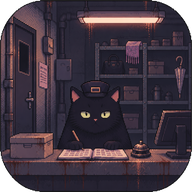
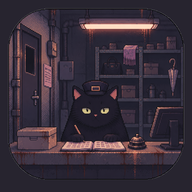
Add files via upload

diff --git a/index.html b/index.html
@@ -42,10 +42,20 @@ body{background:#1c1c26;color:#292633}
 <section id="result" class="hidden"><div class="panel"><div class="deck cardface" id="face"><img id="cardimg" alt="뽑은 타로 카드"></div><h2 id="ct" class="cardtitle"></h2><div id="or" class="orient"></div><p id="meaning"></p><hr><p><b>이 카드를 보고 어떤 생각이 들었나요?</b></p><textarea id="reflection" rows="8" placeholder="마음에 떠오른 걸 자유롭게 적어주세요."></textarea><button id="save" class="btn">마음 찾아가기</button><button id="again" class="btn">한 장 더 뽑기</button></div></section>
 <section id="records" class="hidden records"><div class="panel"><h2>마음 기록</h2><div id="list"></div><hr><div class="backup"><button id="export" class="btn">기록 백업하기</button><button id="importBtn" class="btn">기록 불러오기</button><input id="importFile" class="file" type="file" accept="application/json"></div><p class="tiny">백업 파일에는 질문·카드·정/역방향·기록·날짜가 함께 저장돼요.</p></div></section>
 <nav class="nav"><button id="recordsNav">▣ 기록</button><button id="homeNav">⌂ 홈</button></nav></main>
-<audio id="bgm" src="bgm.wav" loop></audio><audio id="rail" src="rail-ambience.wav" loop preload="auto"></audio><audio id="click" src="click.wav"></audio><audio id="flip" src="flip.wav"></audio>
+<audio id="bgm" src="bgm.wav" loop></audio><audio id="rail" src="rail-ambience.wav" loop preload="auto"></audio><audio id="click" src="click.wav"></audio>
 <script>
-let cards=[],current=null,soundOn=true,recentDraws=[];const $=s=>document.querySelector(s),bgm=$('#bgm'),rail=$('#rail'),click=$('#click'),flip=$('#flip');fetch('cards.json?v=20261012').then(r=>r.json()).then(x=>cards=x);if('serviceWorker'in navigator)navigator.serviceWorker.register('sw.js');
-function sfx(a){if(soundOn){a.currentTime=0;a.play().catch(()=>{})}}function clicky(){sfx(click)}document.addEventListener('pointerdown',e=>{if(e.target.closest('button')&&!e.target.matches('#draw'))clicky()});let bgmUnlocked=false;
+let cards=[],current=null,soundOn=true,recentDraws=[];const $=s=>document.querySelector(s),bgm=$('#bgm'),rail=$('#rail'),click=$('#click');fetch('cards.json?v=20261014-soundfix2').then(r=>r.json()).then(x=>cards=x);if('serviceWorker'in navigator)navigator.serviceWorker.register('sw.js');
+let lastClickAt=0;
+function clicky(){
+  if(!soundOn)return;
+  const now=performance.now();
+  if(now-lastClickAt<280)return;
+  lastClickAt=now;
+  click.pause();click.currentTime=0;
+  click.play().catch(()=>{});
+}
+// A single click event is the only button sound path, including popup buttons.
+document.addEventListener('click',e=>{if(e.target.closest('button'))clicky()});let bgmUnlocked=false;
 function startBgm(){
   if(!soundOn||document.hidden)return;
   bgm.volume=.32;
@@ -69,8 +79,8 @@ window.addEventListener('pageshow',()=>{if(soundOn&&bgmUnlocked)startBgm()});
 $('#sound').onclick=()=>{soundOn=!soundOn;$('#sound').textContent=soundOn?'♪':'×';if(soundOn)startBgm();else stopBgm()};
 function cardCode(name){const major=['The Fool','The Magician','The High Priestess','The Empress','The Emperor','The Hierophant','The Lovers','The Chariot','Strength','The Hermit','Wheel of Fortune','Justice','The Hanged Man','Death','Temperance','The Devil','The Tower','The Star','The Moon','The Sun','Judgement','The World'];let i=major.indexOf(name);if(i>=0)return 'ar'+String(i).padStart(2,'0');const suits={Wands:'wa',Cups:'cu',Swords:'sw',Pentacles:'pe'};for(const [suit,prefix] of Object.entries(suits)){if(name.endsWith(' of '+suit)){const rank=name.slice(0,-(' of '+suit).length),ranks={Ace:1,Two:2,Three:3,Four:4,Five:5,Six:6,Seven:7,Eight:8,Nine:9,Ten:10,Page:11,Knight:12,Queen:13,King:14};return prefix+String(ranks[rank]).padStart(2,'0')}}return 'ar00'}
 function show(id){['home','result','records'].forEach(x=>$('#'+x).classList.toggle('hidden',x!==id));if(id==='records')render()}
-$('#draw').onclick=()=>{if(!cards.length)return;sfx(click);setTimeout(()=>sfx(flip),90);let pool=cards.filter(x=>!recentDraws.includes(x.en));if(!pool.length){recentDraws=[];pool=cards}let c=pool[Math.floor(Math.random()*pool.length)],rev=Math.random()<.5;recentDraws.push(c.en);if(recentDraws.length>8)recentDraws.shift();current={...c,rev,q:$('#question').value.trim()};$('#ct').textContent=c.en+' · '+c.ko;$('#or').textContent=rev?'역방향 REVERSED':'정방향 UPRIGHT';$('#meaning').textContent=(rev?c.r:c.u);const code=cardCode(c.en);const img=$('#cardimg');img.style.display='block';img.alt='';img.classList.toggle('reversed',rev);let sources=['https://raw.githubusercontent.com/sixseeds/tarot-api/main/cards/'+code+'.jpg','https://cdn.jsdelivr.net/gh/sixseeds/tarot-api@main/cards/'+code+'.jpg','https://petaloverflow.github.io/tarot-api/cards/'+code+'.jpg'];let si=0;img.onerror=()=>{si++;if(si<sources.length){img.src=sources[si]}else{img.onerror=null;img.style.display='none'}};img.src=sources[0];$('#face').style.transform='none';$('#reflection').value='';show('result')};
-$('#save').onclick=()=>{if(!current)return;let arr=JSON.parse(localStorage.getItem('boriRecords')||'[]');arr.unshift({...current,text:$('#reflection').value,at:new Date().toISOString()});localStorage.setItem('boriRecords',JSON.stringify(arr));let p=document.createElement('div');p.className='popup';p.innerHTML='<div class="popbox"><b class="handover-title">해당 마음의 소유자가 확인되었습니다.</b><p class="handover-subtitle">정상적으로 인계합니다.</p><svg class="paw-stamp" viewBox="0 0 72 72" aria-label="낡은 붉은 고양이 발자국 도장" role="img" xmlns="http://www.w3.org/2000/svg"><defs><mask id="worn-paw"><rect width="72" height="72" fill="white"/><path d="M15 21l3 2-1 3-4-1zm42 28 3-2 1 4-3 2zM30 8l3 2-1 4-3-1zM47 59l4-2 1 2-3 3zM18 48l4-2 1 2-3 3zM38 34l2 1-1 2-2-1zM33 49l3-1 1 2-3 1zM49 26l2-2 2 2-2 2z" fill="black"/><path d="M11 38h5m40-2h4M25 61l4-1" stroke="black" stroke-width="2"/></mask></defs><g fill="none" stroke="#9f3435" stroke-width="2.9" stroke-linecap="round" mask="url(#worn-paw)"><path d="M57 18C47 7 27 7 17 17 6 28 7 47 19 57c10 9 28 8 39-3 10-10 10-26 2-36"/></g><g fill="#a33839" mask="url(#worn-paw)"><ellipse cx="22" cy="30" rx="5" ry="7" transform="rotate(-25 22 30)"/><ellipse cx="32" cy="23" rx="4.6" ry="6.5" transform="rotate(-8 32 23)"/><ellipse cx="44" cy="24" rx="4.6" ry="6.5" transform="rotate(12 44 24)"/><ellipse cx="53" cy="33" rx="4.6" ry="6.4" transform="rotate(29 53 33)"/><path d="M28 40c2-4 4-6 8-6s7 3 9 7c2 3 7 6 6 11-1 5-6 6-10 4-3-1-7-1-10 0-5 2-10-1-10-6 0-4 5-7 7-10z"/></g></svg><button class="btn">확인</button></div>';document.body.append(p);p.querySelector('button').onclick=()=>{clicky();p.remove();show('home')}};
+$('#draw').onclick=()=>{if(!cards.length)return;let pool=cards.filter(x=>!recentDraws.includes(x.en));if(!pool.length){recentDraws=[];pool=cards}let c=pool[Math.floor(Math.random()*pool.length)],rev=Math.random()<.5;recentDraws.push(c.en);if(recentDraws.length>8)recentDraws.shift();current={...c,rev,q:$('#question').value.trim()};$('#ct').textContent=c.en+' · '+c.ko;$('#or').textContent=rev?'역방향 REVERSED':'정방향 UPRIGHT';$('#meaning').textContent=(rev?c.r:c.u);const code=cardCode(c.en);const img=$('#cardimg');img.style.display='block';img.alt='';img.classList.toggle('reversed',rev);let sources=['https://raw.githubusercontent.com/sixseeds/tarot-api/main/cards/'+code+'.jpg','https://cdn.jsdelivr.net/gh/sixseeds/tarot-api@main/cards/'+code+'.jpg','https://petaloverflow.github.io/tarot-api/cards/'+code+'.jpg'];let si=0;img.onerror=()=>{si++;if(si<sources.length){img.src=sources[si]}else{img.onerror=null;img.style.display='none'}};img.src=sources[0];$('#face').style.transform='none';$('#reflection').value='';show('result')};
+$('#save').onclick=()=>{if(!current)return;let arr=JSON.parse(localStorage.getItem('boriRecords')||'[]');arr.unshift({...current,text:$('#reflection').value,at:new Date().toISOString()});localStorage.setItem('boriRecords',JSON.stringify(arr));let p=document.createElement('div');p.className='popup';p.innerHTML='<div class="popbox"><b class="handover-title">해당 마음의 소유자가 확인되었습니다.</b><p class="handover-subtitle">정상적으로 인계합니다.</p><svg class="paw-stamp" viewBox="0 0 72 72" aria-label="낡은 붉은 고양이 발자국 도장" role="img" xmlns="http://www.w3.org/2000/svg"><defs><mask id="worn-paw"><rect width="72" height="72" fill="white"/><path d="M15 21l3 2-1 3-4-1zm42 28 3-2 1 4-3 2zM30 8l3 2-1 4-3-1zM47 59l4-2 1 2-3 3zM18 48l4-2 1 2-3 3zM38 34l2 1-1 2-2-1zM33 49l3-1 1 2-3 1zM49 26l2-2 2 2-2 2z" fill="black"/><path d="M11 38h5m40-2h4M25 61l4-1" stroke="black" stroke-width="2"/></mask></defs><g fill="none" stroke="#9f3435" stroke-width="2.9" stroke-linecap="round" mask="url(#worn-paw)"><path d="M57 18C47 7 27 7 17 17 6 28 7 47 19 57c10 9 28 8 39-3 10-10 10-26 2-36"/></g><g fill="#a33839" mask="url(#worn-paw)"><ellipse cx="22" cy="30" rx="5" ry="7" transform="rotate(-25 22 30)"/><ellipse cx="32" cy="23" rx="4.6" ry="6.5" transform="rotate(-8 32 23)"/><ellipse cx="44" cy="24" rx="4.6" ry="6.5" transform="rotate(12 44 24)"/><ellipse cx="53" cy="33" rx="4.6" ry="6.4" transform="rotate(29 53 33)"/><path d="M28 40c2-4 4-6 8-6s7 3 9 7c2 3 7 6 6 11-1 5-6 6-10 4-3-1-7-1-10 0-5 2-10-1-10-6 0-4 5-7 7-10z"/></g></svg><button class="btn">확인</button></div>';document.body.append(p);p.querySelector('button').onclick=()=>{p.remove();show('home')}};
 $('#again').onclick=()=>show('home');$('#homeNav').onclick=()=>show('home');$('#recordsNav').onclick=()=>show('records');
 function render(){let a=JSON.parse(localStorage.getItem('boriRecords')||'[]'),l=$('#list');if(!a.length){l.innerHTML='<div class="empty">아직 보관된 마음이 없어요.</div>';return}l.innerHTML=a.map(x=>`<div class="item"><b>${new Date(x.at).toLocaleString('ko-KR')}</b><br>${x.en} · ${x.ko} / ${x.rev?'역방향':'정방향'}${x.q?`<p>Q. ${esc(x.q)}</p>`:''}<p>${esc(x.text||'')}</p></div>`).join('')}
 function esc(s){return s.replace(/[&<>"']/g,c=>({'&':'&amp;','<':'&lt;','>':'&gt;','"':'&quot;',"'":'&#39;'}[c]))}

diff --git a/sw.js b/sw.js
@@ -1,5 +1,5 @@
-const C='mind-fragment-v9-softclick-20261014';
-const ASSETS=['./','./index.html','./cards.json','./bgm.wav','./rail-ambience.wav','./click.wav','./flip.wav','./icon-192.png','./icon-512.png','./kami-lost-found.webp','./manifest.webmanifest'];
+const C='mind-fragment-v20261014-clickfix-2';
+const ASSETS=['./','./index.html','./cards.json','./bgm.wav','./rail-ambience.wav','./click.wav','./icon-192.png','./icon-512.png','./kami-lost-found.webp','./manifest.webmanifest'];
 self.addEventListener('install',event=>{event.waitUntil(caches.open(C).then(cache=>cache.addAll(ASSETS)).then(()=>self.skipWaiting()));});
 self.addEventListener('activate',event=>{event.waitUntil(Promise.all([caches.keys().then(keys=>Promise.all(keys.filter(key=>key!==C).map(key=>caches.delete(key)))),self.clients.claim()]));});
 self.addEventListener('fetch',event=>{const req=event.request;if(req.method!=='GET'||new URL(req.url).origin!==self.location.origin)return;event.respondWith(fetch(req).then(res=>{if(res.ok){const copy=res.clone();event.waitUntil(caches.open(C).then(cache=>cache.put(req,copy)));}return res;}).catch(()=>caches.match(req)));});
